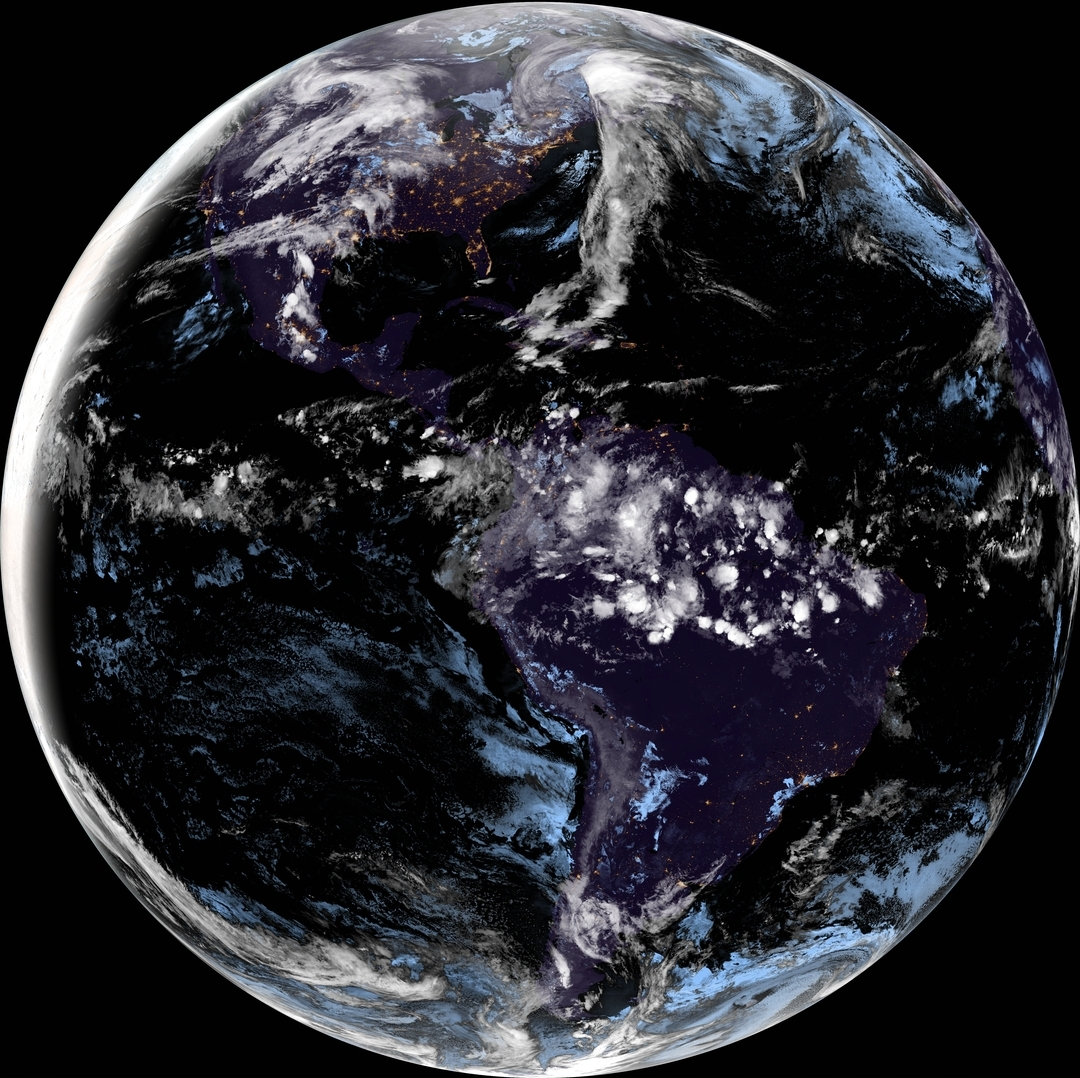
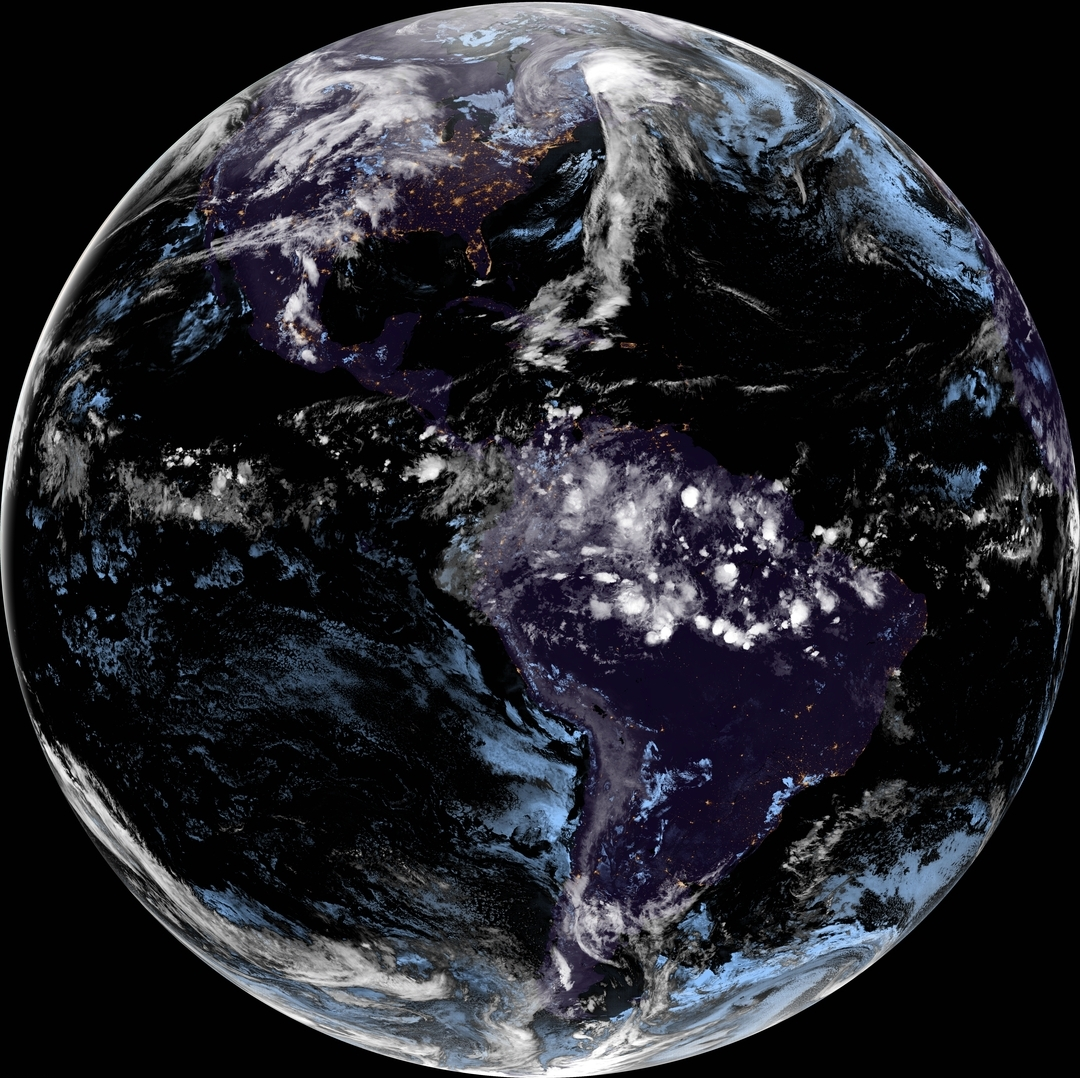
update images

diff --git a/index.html b/index.html
@@ -96,7 +96,7 @@
   </div>
 
   <p class="colophon">
-    Last updated <date datetime="2022-04-20T02:45:22.108Z">2022-04-20T02:45:22.108Z</date>.
+    Last updated <date datetime="2022-04-20T03:31:01.899Z">2022-04-20T03:31:01.899Z</date>.
     Updates every hour.<br>
     Source code is available <a href="https://github.com/ungoldman/latest-earth">here</a>.
   </p>
